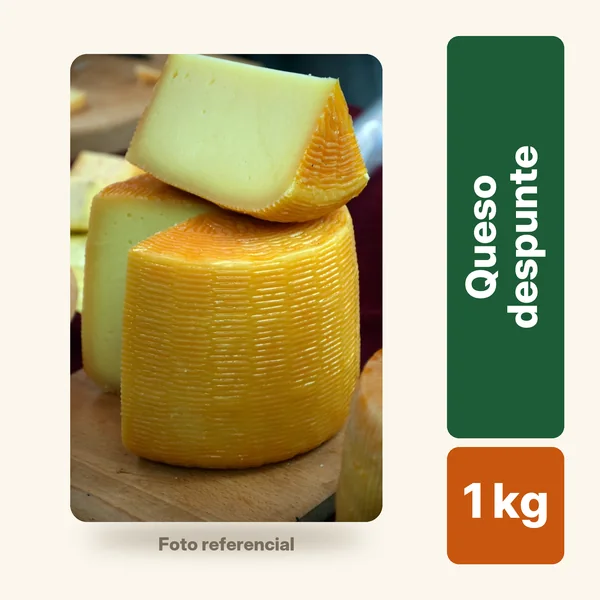
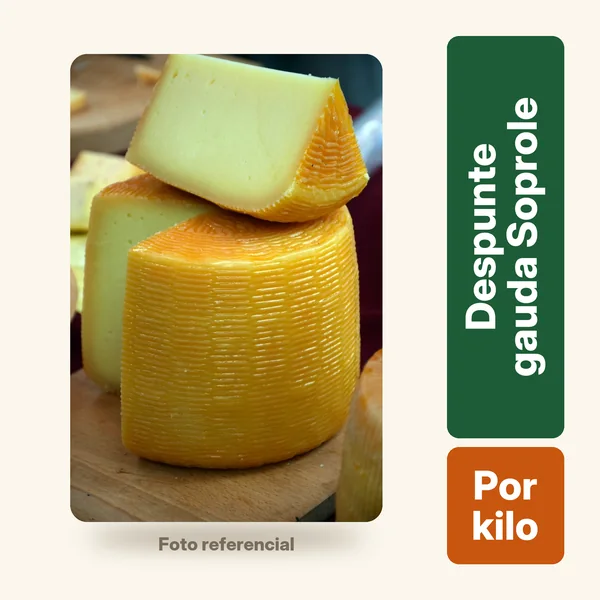
Quesos nuevos de las facturas del 24-11 y fotos de David en lácteos
- LAC018–LAC026: mantequilla Curihue, quesillo y mantecosos San Sebastián, mantecoso Las Parcelas, Rafulco redondo y finas hierbas (merkén, orégano, albahaca), con ¼ kg (22 %), kilo (18,5 %) y pieza (15 %).
- LAC008 pasa a despunte gauda Soprole por kilo y ¼ kg.
- Con foto de David: mantequilla El Roble, queso fresco Los Tilos, chacra y cabra El Roble; LAC010 con su foto primero.

Changed region(s): [[0.75, 0.15, 0.93, 0.63], [0.75, 0.78, 0.93, 0.9]]

diff --git a/carta/index.html b/carta/index.html
@@ -1920,7 +1920,24 @@ const LOCALES = {
       {cod:"LAC005",cat:"Lácteos",nombre:"Queso laminado Don Isidro ¼ kg",detalle:"Precio por unidad",precio:2990,nuevo:true,foto:"../img/productos/fotos/LAC005.webp"},
       {cod:"LAC006",cat:"Lácteos",nombre:"Queso laminado Don Isidro ½ kg",detalle:"Precio por unidad",precio:5980,nuevo:true,foto:"../img/productos/fotos/LAC006.webp"},
       {cod:"LAC007",cat:"Lácteos",nombre:"Queso gauda (barra)",detalle:"Precio por kilo",precio:5990,bolsas:[[250,1590],[1000,5990]],porcion:true,nuevo:true,foto:"../img/productos/fotos/LAC007.webp"},
-      {cod:"LAC008",cat:"Lácteos",nombre:"Queso despunte 1 kg",detalle:"Precio por unidad",precio:5990,nuevo:true,foto:"../img/productos/fotos/LAC008.webp"},
+      // 24/11/2026: facturas Los Llanos N° 109334 y Don Gaspar N° 180 (David: «22% precio del cuarto. 18,5 para el kg y 15% para la pieza»; «los precios están bien»).
+      // Códigos = MyPyme: LAC018–LAC021 los creó el equipo en MyPyme; LAC022–LAC026, Claude. Despunte gauda Soprole = LAC008 (mismo costo). Fotos de David.
+      {cod:"LAC008",cat:"Lácteos",nombre:"Queso despunte gauda Soprole",detalle:"Precio por kilo",precio:6140,bolsas:[[250,1610],[1000,6140]],porcion:true,nuevo:true,foto:"../img/productos/fotos/LAC008.webp"},
+      {cod:"LAC018",cat:"Lácteos",nombre:"Mantequilla artesanal Fundo Curihue 250 g",detalle:"Precio por unidad",precio:2720,nuevo:true,foto:"../img/productos/fotos/LAC018.webp"},
+      {cod:"LAC019",cat:"Lácteos",nombre:"Quesillo San Sebastián 400 g",detalle:"Precio por unidad",precio:2460,nuevo:true,foto:"../img/productos/fotos/LAC019.webp"},
+      {cod:"LAC020",cat:"Lácteos",nombre:"Queso mantecoso San Sebastián (pieza)",detalle:"Precio por kilo",precio:8770,bolsas:[[250,2290],[1000,8770]],porcion:true,pieza:8400,nuevo:true,foto:"../img/productos/fotos/LAC020.webp"},
+      {cod:"LAC021",cat:"Lácteos",nombre:"Queso mantecoso redondo San Sebastián 800 g aprox.",detalle:"Precio por unidad",precio:8240,nuevo:true,foto:"../img/productos/fotos/LAC021.webp"},
+      {cod:"LAC022",cat:"Lácteos",nombre:"Queso mantecoso Las Parcelas de Valdivia (pieza)",detalle:"Precio por kilo",precio:10930,bolsas:[[250,2860],[1000,10930]],porcion:true,pieza:10480,nuevo:true,foto:"../img/productos/fotos/LAC022.webp"},
+      {cod:"LAC023",cat:"Lácteos",nombre:"Queso mantecoso Rafulco (redondo de 1 kg)",detalle:"Precio por kilo",precio:10740,bolsas:[[250,2810],[1000,10740]],porcion:true,pieza:10300,nuevo:true,foto:"../img/productos/fotos/LAC023.webp",fotos:["../img/productos/fotos/LAC023.webp", "../img/productos/fotos/LAC023-2.webp"]},
+      {cod:"LAC024",cat:"Lácteos",nombre:"Queso finas hierbas Rafulco merkén",detalle:"Precio por kilo",precio:12030,bolsas:[[250,3150],[1000,12030]],porcion:true,pieza:11530,nuevo:true,foto:"../img/productos/fotos/LAC024.webp",fotos:["../img/productos/fotos/LAC024.webp", "../img/productos/fotos/LAC024-2.webp"]},
+      {cod:"LAC025",cat:"Lácteos",nombre:"Queso finas hierbas Rafulco orégano",detalle:"Precio por kilo",precio:12030,bolsas:[[250,3150],[1000,12030]],porcion:true,pieza:11530,nuevo:true,foto:"../img/productos/fotos/LAC025.webp",fotos:["../img/productos/fotos/LAC025.webp", "../img/productos/fotos/LAC025-2.webp"]},
+      {cod:"LAC026",cat:"Lácteos",nombre:"Queso finas hierbas Rafulco albahaca",detalle:"Precio por kilo",precio:12030,bolsas:[[250,3150],[1000,12030]],porcion:true,pieza:11530,nuevo:true,foto:"../img/productos/fotos/LAC026.webp",fotos:["../img/productos/fotos/LAC026.webp", "../img/productos/fotos/LAC026-2.webp"]},
+      // Ya estaban en MyPyme (los creó el equipo) y David mandó su foto el 24/11/2026: precio = lista Emporio de MyPyme.
+      // Queso de cabra El Roble: kilo y pieza = U.M. «Kilogramos» y «Pieza kilo»; el ¼ kg = 250 g al precio por gramo (lo que cobra la balanza).
+      {cod:"LAC011",cat:"Lácteos",nombre:"Mantequilla de campo El Roble 250 g",detalle:"Precio por unidad",precio:2050,nuevo:true,foto:"../img/productos/fotos/LAC011.webp"},
+      {cod:"LAC013",cat:"Lácteos",nombre:"Queso fresco Los Tilos 350 g",detalle:"Precio por unidad",precio:2400,nuevo:true,foto:"../img/productos/fotos/LAC013.webp"},
+      {cod:"LAC014",cat:"Lácteos",nombre:"Queso chacra El Roble 450 g",detalle:"Precio por unidad",precio:3320,nuevo:true,foto:"../img/productos/fotos/LAC014.webp"},
+      {cod:"LAC016",cat:"Lácteos",nombre:"Queso de cabra El Roble (barra)",detalle:"Precio por kilo",precio:18810,bolsas:[[250,4920],[1000,18810]],porcion:true,pieza:18050,nuevo:true,foto:"../img/productos/fotos/LAC016.webp"},
       // 23/11/2026 (David: «estos son todos los códigos, porque faltan congelados y cecinas»): productos nuevos de la planilla 13, código = el de MyPyme,
       // precio = «Precio venta» de la planilla 13; las cecinas por kilo se venden en ¼ kg o 1 kg (el ¼ kg es el de la planilla, columna «Observaciones»).
       {cod:"CEC001",cat:"Cecinas",nombre:"Jamón pierna sándwich Receta del Abuelo",detalle:"Precio por kilo",precio:11400,bolsas:[[250,2950],[1000,11400]],porcion:true,nuevo:true,foto:"../img/productos/fotos/CEC001.webp"},
@@ -1945,7 +1962,7 @@ const LOCALES = {
       {cod:"CGL008",cat:"Congelados",nombre:"Apanado de pollo PF 100 g",detalle:"Precio por unidad",precio:450,nuevo:true,foto:"../img/productos/fotos/CGL008.webp"},
       {cod:"CGL009",cat:"Congelados",nombre:"Choclo grano congelado 450 g",detalle:"Precio por unidad",precio:1700,nuevo:true,foto:"../img/productos/fotos/CGL009.webp"},
       {cod:"CGL010",cat:"Congelados",nombre:"Arvejas congeladas 200 g",detalle:"Precio por unidad",precio:700,nuevo:true,foto:"../img/productos/fotos/CGL010.webp"},
-      {cod:"LAC010",cat:"Lácteos",nombre:"Mantequilla panificadora 250 g",detalle:"Precio por unidad",precio:2890,nuevo:true,foto:"../img/productos/fotos/LAC010.webp"},
+      {cod:"LAC010",cat:"Lácteos",nombre:"Mantequilla panificadora 250 g",detalle:"Precio por unidad",precio:2890,nuevo:true,foto:"../img/productos/fotos/LAC010.webp",fotos:["../img/productos/fotos/LAC010.webp", "../img/productos/fotos/LAC010-2.webp"]},
       {cod:"OTR001",cat:"Golosinas",nombre:"Bon o bon dulce de leche",detalle:"Precio por unidad",precio:118},
       {cod:"OTR004",cat:"Otros",nombre:"Hilo ovillo chico",detalle:"Precio por unidad",precio:3990,foto:"../img/productos/fotos/OTR004.webp"},
       {cod:"OTR003",cat:"Otros",nombre:"Hilo cono",detalle:"Precio por unidad",precio:12750,stock:42,foto:"../img/productos/fotos/OTR003.webp"},

diff --git a/CLAUDE.md b/CLAUDE.md
@@ -399,5 +399,6 @@ Pedido de David: «el stock que hay en bodega según la planilla actualizada que
 - **Prestobarba Venus (24/11/2026, David: «LIM009 es el código real de ASE009, cámbialo en todos lados; la prestobarba Venus es de mujer, búscala en internet y le cambias la imagen»):** en MyPyme hay UN artículo, LIM009 «Prestobarba Venus suave aloe vera» ($780 Emporio; ASE009 y ASE010 abren esa misma ficha como códigos antiguos). En la carta había dos: ASE009 «Prestobarba simpli venus» (sin código) y ASE010 «… aloe vera Gillette» (LIM009). Ahora `COD_MYPYME["ASE009"]="LIM009"` (carta y `CODIGOS_MYPYME` del .gs, que hay que instalar) y `COD_ETIQ["ASE009"]="PRES001"`; nota en la planilla 13 (fila de LIM009). Fotos ASE009/ASE010: la Gillette Venus Suave aloe vera (rosada, de mujer) de MercadoLibre (`D_NQ_NP_641773-MLM73646257133`), con `fotoWeb.py` (`hasta: 1.0`) y las etiquetas de siempre; crédito en legal.html. Ojo: siguen siendo dos tarjetas para el mismo producto de MyPyme (falta que David diga si se saca una) y la carta las tiene a $774 (MyPyme $780).
 - **Publicado e instalado el 24/11/2026 (David: «Sí, publica todo»):** main = e71f235 (saco kraft por paquete, guantes por caja, solo paquete, unidad sin recargo, blonda N° 5, cúpulas, bolsa reutilizable, prestobarba Venus); verificado en la web (carta, legal y fotos ASE009/ASE010 con md5 igual; `sabapp/catalogo.json` 200 con BLO011). Apps Script: Código.gs (SHA-256 fc643580985809b1, solo cambia `CODIGOS_MYPYME["ASE009"]="LIM009"`) desde raw.githubusercontent.com en e71f235; versión 24 («24/11/2026 código MyPyme de la prestobarba ASE009 (LIM009)») en las TRES implementaciones; `?stock=emporio` → {ok:true}. Ese día la sesión de Google del navegador de la app se había cerrado: David entró de nuevo.
 - **Mortadela jamonada (24/11/2026, David: «queda en 5150 el kg y el 1/4 en 1750»):** CEC005 `precio:5150`, `bolsas:[[250,1750],[1000,5150]]`. MyPyme (lista Emporio): Kilogramos $5.150, Gramos $5,15 (guarda decimales aunque muestre 5) y se agregó la unidad «250 gr» (Gramos → 250 gr × 250) a $1.750. Planilla 13: W 5.150, «Precio 1/4 kg: $1.750» en P y nota en Z. Publicado el 24/11 (David: «Sí, publícala»): main = 60bbcb9, carta con md5 igual en la web.
+- **Quesos, quesillo y mantequillas nuevos (24/11/2026, facturas Los Llanos N° 109334 y Don Gaspar N° 180; David: «22% precio del cuarto. 18,5 para el kg y 15% para la pieza», «los precios están bien, los subes a mypyme también», y mandó una foto de cada producto: «las subes a internet»):** precio = costo con IVA ÷ (1 − margen), hacia arriba a $10. Mientras se trabajaba, el equipo creó en MyPyme LAC018 mantequilla Curihue, LAC019 quesillo San Sebastián, LAC020 mantecoso San Sebastián pieza y LAC021 mantecoso redondo San Sebastián (800 g): se respetaron esos códigos y se les cargaron los precios. Claude creó LAC022 mantecoso Las Parcelas de Valdivia (pieza), LAC023 mantecoso Rafulco redondo 1 kg y los finas hierbas Rafulco LAC024 merkén, LAC025 orégano y LAC026 albahaca (un código por sabor; en la factura venían juntos como «Redondo sabores Rafulco»), marca SIN MARCA (no existen esas marcas en MyPyme). Los de pieza tienen base Gramos (pesable) + «250 gr», «Kilogramos» y «Pieza kilo» en la lista Emporio, como la pieza mantecoso El Roble (LAC017). El despunte gauda Soprole tiene el mismo costo que LAC008: queda en LAC008, ahora por kilo ($6.140) y ¼ kg ($1.610), carta «Queso despunte gauda Soprole» (en MyPyme sigue «Queso despunte 1 kg»). Con las fotos de David también entraron a la carta LAC011 mantequilla El Roble, LAC013 queso fresco Los Tilos 350 g, LAC014 chacra El Roble 450 g y LAC016 cabra El Roble (barra; kilo y pieza de MyPyme, el ¼ = 250 g al precio por gramo), y LAC010 (Frutillar) lleva la foto de David primero (`LAC010-2.webp` es la anterior). LAC015 «Barra er cremoso mantecoso» NO se subió: en MyPyme el gramo está a $8,40 y el kilo a $6.750 (no calzan); su ficha quedó en el scratchpad (`facturas24/fichas/LAC015.webp`). Fichas con `fichaFoto.py` (foto propia en recuadro, sin «Foto referencial»), scripts `facturas24/` del scratchpad; planilla 13: LAC008 en su fila y 13 filas nuevas al final (546–558, ocultas por el filtro activo); 23 filas en «Cambios de precios para MyPyme» con «Sí».
 - **MyPyme completo (23/11/2026):** el informe de artículos con «Local» = Emporio Sabroso trae 511; con «Todos», 646 (Distribuidora y Supermercado Santa Bárbara comparten los códigos). Ojo: LAC010 ya es en MyPyme «Queso laminado Frutillar gauda 500gr» (otro local), y la planilla 13 lo usa para la mantequilla panificadora 250 g; INS007 bandeja recolectora no está en la carta.
 - Para instalar (con el sí de David): 1) pegar el .gs y el Panel.html nuevos en el proyecto de Apps Script de la planilla EM27-0802 (no se agregan servicios de Google); 2) versión nueva en las TRES implementaciones (catálogo AKfycbzP…, SabAPP vendedores AKfycbxONg…, SabAPP correo y clave AKfycbzezl…); 3) publicar la carta y sabapp/ (`node herramientas/sabapp/construir.js` ya corrido). El orden no rompe nada: con el script viejo la carta nueva solo manda un campo de más y la SabAPP web no muestra «Editar pedido».
